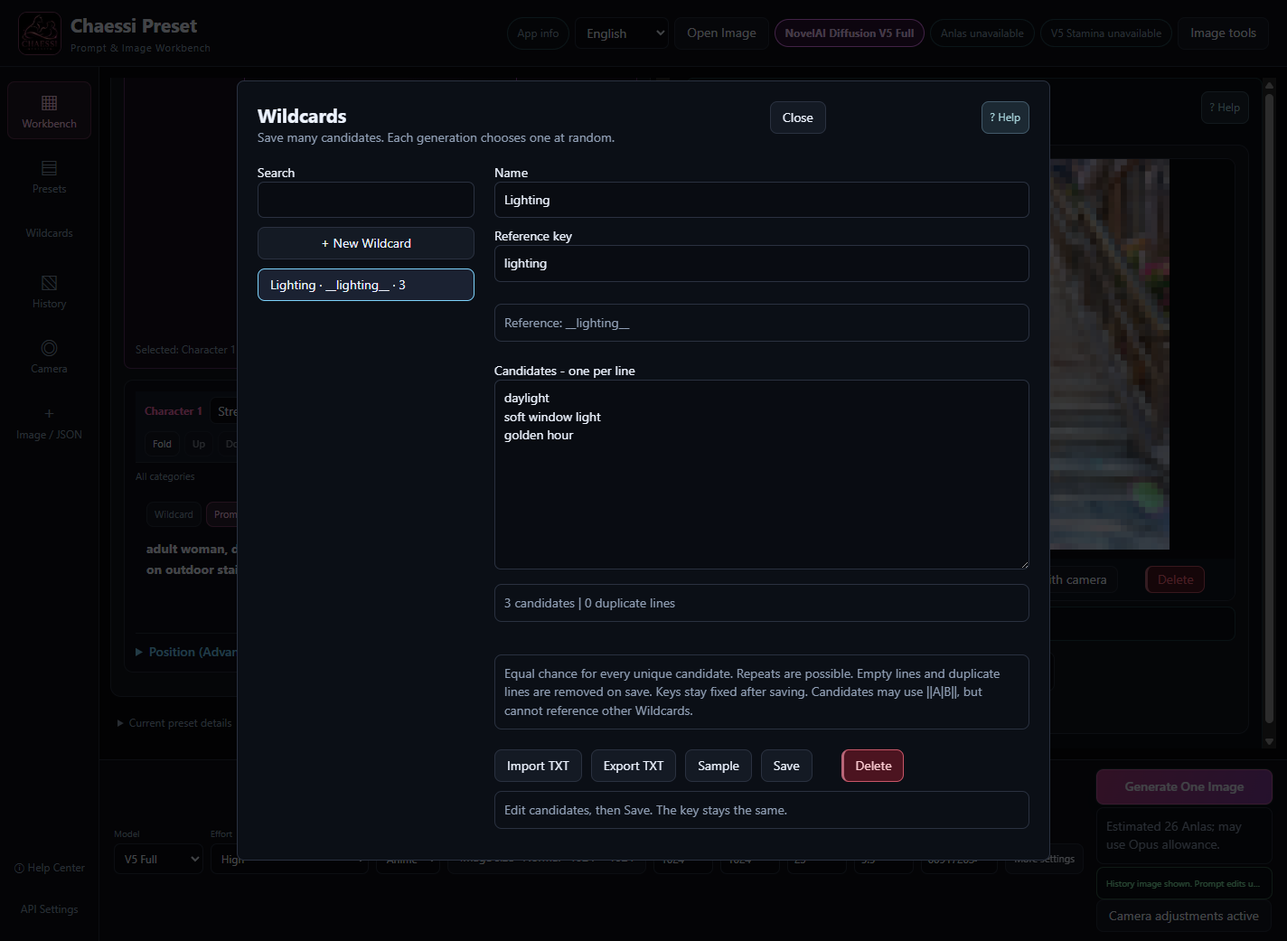
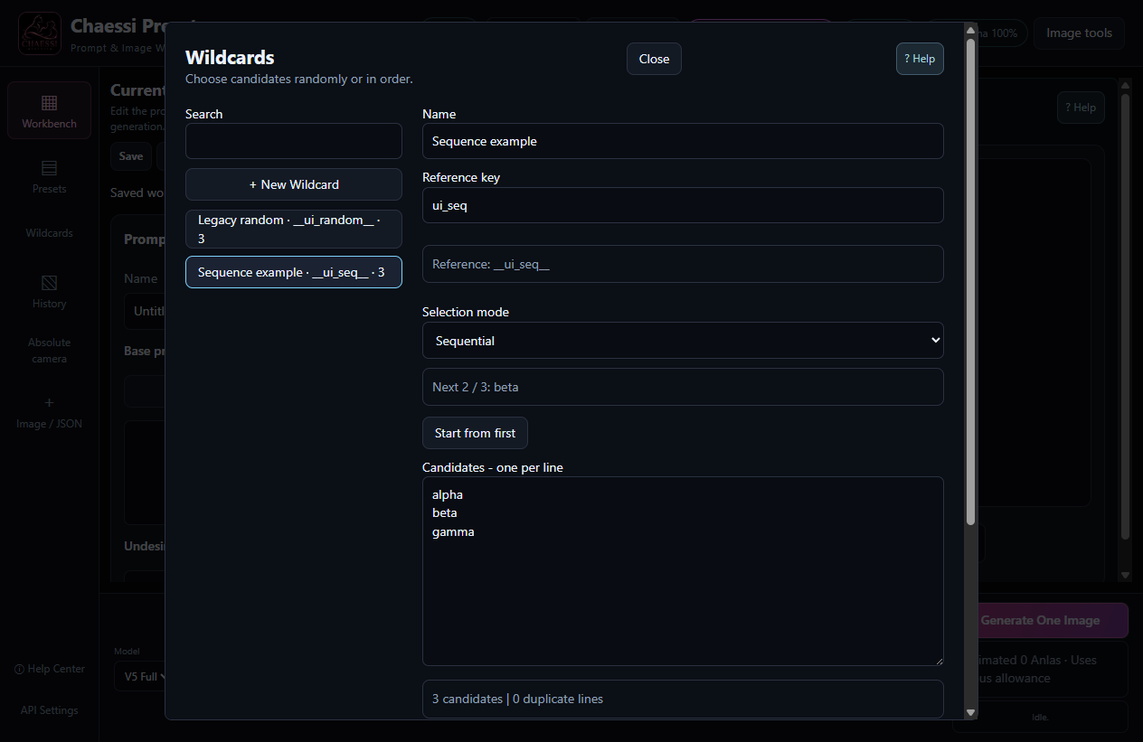
Document the 2026-10-28 v3.8.2 Wildcard revision without changing other guides

diff --git a/src/ui/manual-content.js b/src/ui/manual-content.js
@@ -29,9 +29,9 @@ export const manualChapters = [
     ['Characters, outfits and categories', 'Give each character its own prompt and load character or outfit presets.', ['Press Add Character and enter a name and prompt. Use the other tab for Undesired Content.', 'Press Preset in that Character slot, then choose a category and subcategory.', 'Find a card with search and sorting, then Load it. Save & manage includes Save, Save As, thumbnails and category creation.', 'Use Fold/Expand, On/Off and Up/Down to organize slots. Base Prompt uses the same preset library.'], 'Each numbered slot remembers its last category, including across app restarts and full preset or History application. Deleting a slot removes its current edits but keeps saved character presets.'],
     ['キャラクター・衣装・カテゴリ', 'キャラクターごとにプロンプトを書き、キャラクターや衣装のプリセットを読み込めます。', ['キャラクターを追加し、名前とプロンプトを入力します。除外プロンプトは隣のタブに書きます。', 'そのスロットのプリセットを押し、カテゴリとサブカテゴリを選びます。', '検索と並び替えで探したカードを読み込みます。保存と管理では保存、名前を付けて保存、サムネイル、カテゴリ追加ができます。', '折りたたみ、展開、オン・オフ、上・下で整理します。ベースプロンプトも同じライブラリを使います。'], '番号ごとのスロットは最後のカテゴリを記憶します。再起動や全体プリセット・履歴の適用後も保持します。スロット削除は編集中の内容を消しますが、保存したキャラクタープリセットは残ります。']),
   chapter('wildcards', 'wildcard',
-    ['와일드카드', '많은 프롬프트 후보를 한 곳에 저장하고, 이미지마다 하나를 무작위로 고를 수 있습니다.', ['왼쪽 와일드카드에서 + 새 와일드카드를 누릅니다. 이름은 상의, 키는 tops처럼 정합니다.', '후보에 white shirt, black shirt, blue shirt를 각각 다른 줄에 넣고 저장합니다.', '베이스나 캐릭터 칸의 와일드카드 버튼을 누릅니다. 목록에서 고르고 프롬프트에 삽입을 누르면 __tops__가 들어갑니다. 직접 __tops__를 적어도 됩니다.', '프리셋으로 저장한 뒤 생성합니다. 그때 고른 실제 후보만 NovelAI 요청, 히스토리, 이미지 메타데이터에 기록됩니다.'], '여러 키를 함께 쓸 수 있습니다. 빈 줄과 중복 줄은 저장할 때 제거됩니다. 같은 후보가 연속으로 나올 수 있습니다. 키는 저장 후 고정됩니다. TXT 가져오기·내보내기와 시험 선택도 사용할 수 있습니다. 후보에 기존 ||A|B||는 쓸 수 있지만 다른 와일드카드는 참조할 수 없습니다.'],
-    ['Wildcards', 'Save many prompt candidates in one place and choose one randomly for each image.', ['Open Wildcards and press + New Wildcard. Use a name such as Tops and a key such as tops.', 'Enter white shirt, black shirt and blue shirt on separate lines, then Save.', 'Press Wildcard next to Base Prompt or a Character field. Select an item and Insert into prompt to add __tops__. You can also type __tops__ directly.', 'Save the preset and generate. Only the actual chosen text is recorded in the NovelAI request, History and image metadata.'], 'Use multiple keys together. Empty and duplicate lines are removed on save. Repeated selections are possible. Keys are fixed after saving. TXT import/export and Sample are available. Candidates may contain the existing ||A|B|| syntax, but cannot reference other Wildcards.'],
-    ['ワイルドカード', '多数のプロンプト候補を保存し、画像ごとに1つをランダムに選べます。', ['ワイルドカードで + 新しいワイルドカードを押します。名前は上着、キーは tops などにします。', 'white shirt、black shirt、blue shirt をそれぞれ別の行に入力して保存します。', 'ベースやキャラクター欄のワイルドカードを押します。一覧で選び、プロンプトに挿入すると __tops__ が入ります。直接入力もできます。', 'プリセットとして保存し、生成します。選ばれた実際の文字だけを NovelAI リクエスト、履歴、画像メタデータに記録します。'], '複数のキーを一緒に使えます。保存時に空行と重複行を除きます。同じ候補が連続する場合もあります。保存後のキーは固定です。TXT の読み込み・書き出し、試しに選ぶ機能もあります。候補に ||A|B|| は使えますが、別のワイルドカードは参照できません。']),
+    ["와일드카드","여러 프롬프트 후보를 저장하고 무작위(Random) 또는 순차(Sequential)로 선택합니다.",["왼쪽 와일드카드에서 + 새 와일드카드를 누릅니다. 이름과 tops 같은 키를 정하고 후보를 한 줄에 하나씩 입력합니다. TXT 가져오기·내보내기도 사용할 수 있습니다.","선택 방식에서 무작위 또는 순차를 고르고 저장합니다. 기존 항목과 새 항목의 기본값은 무작위이며, 참조마다 독립적으로 추첨합니다.","순차는 등록 순서대로 A → B → C → A처럼 반복합니다. 다음 항목 번호와 내용을 확인하고, 처음부터를 누르면 첫 후보로 돌아갑니다. 편집 중이라면 먼저 저장하세요.","베이스·캐릭터 또는 실제 적용되는 제외 프롬프트에 __tops__를 삽입합니다. 같은 순차 키를 한 이미지에서 여러 번 쓰면 같은 후보를 사용하고 한 번만 진행합니다. 여러 키의 순번은 각각 관리합니다.","이미지 생성과 History 저장이 모두 성공하면 다음 후보로 진행합니다. 생성 준비·문구 확인·Sample·미리보기·취소·실패에서는 진행하지 않습니다. 최종 생성 문구에 사용되지 않은 참조도 진행하지 않습니다.","Sample로 순차의 다음 후보를 미리 볼 수 있습니다. 앱을 다시 실행해도 순번이 복원되며, 무작위로 바꿨다가 순차로 돌아와도 이전 순번을 유지합니다.","History에는 실제 선택한 문구가 보존됩니다. History를 재사용하면 그 문구를 사용하며 새 순번을 소비하지 않습니다. 새 후보를 선택하려면 프롬프트에 참조 키를 다시 넣으세요."],"빈 줄과 중복 줄은 저장 시 제거하며 키는 저장 후 고정됩니다. 후보에 ||A|B||는 쓸 수 있지만 다른 Wildcard 참조는 넣을 수 없습니다. 기존 데이터는 일괄 변환하지 않습니다. 항목을 추가·정렬하면 다음 후보를 유지하고, 삭제하면 남은 다음 후보로 이동합니다. 순차 생성 중에는 편집·초기화를 기다리세요. 이미지 도구는 순번을 진행하지 않습니다. 동일 데이터 폴더를 여러 앱에서 동시에 사용하지 마세요."],
+    ["Wildcards","Save prompt candidates and choose Random or Sequential selection.",["Open Wildcards and press + New Wildcard. Choose a name and a key such as tops, and enter one candidate per line. TXT import/export remains available.","Choose Random or Sequential and Save. Existing and new Wildcards default to Random, which draws independently for every reference.","Sequential repeats the saved order, such as A → B → C → A. Check the next item number and text. Start from first resets to the first candidate; save pending edits first.","Insert __tops__ into Base, Character or an active Undesired prompt. Repeated references to the same sequential key in one image share one choice and advance once. Each key has its own position.","Advance only after both image generation and History saving succeed. Preparation, prompt review, Sample, preview, cancellation and failure do not advance. References omitted from the final generation text do not advance either.","Sample previews the next sequential candidate. Restarting restores the position. Switching to Random and back to Sequential retains the paused position.","History keeps the actual chosen text. Reusing History uses that text without consuming another position. Insert the reference key again when you want a new choice."],"Empty and duplicate lines are removed on save, and saved keys stay fixed. Candidates may use ||A|B|| but cannot reference other Wildcards. Existing data is not bulk-converted. Adding or reordering retains the next candidate; deleting it moves to the next surviving candidate. Wait for a sequential generation to finish before editing or resetting. Image tools do not advance the position. Do not use the same data folder in multiple app instances simultaneously."],
+    ["ワイルドカード","候補を保存し、ランダム(Random)または順番(Sequential)で選択します。",["ワイルドカードで「+ 新しいワイルドカード」を押します。名前と tops などのキーを決め、候補を1行に1つ入力します。TXT の読み込み・書き出しも使えます。","選択方式でランダムまたは順番を選び、保存します。既存・新規とも初期値はランダムで、参照ごとに独立して選びます。","順番は登録順に A → B → C → A と繰り返します。次の候補番号と内容を確認し、「最初から」で先頭に戻せます。編集中の内容は先に保存してください。","ベース・キャラクターまたは実際に適用される除外プロンプトに __tops__ を挿入します。同じ順番キーを1枚で複数回使うと同じ候補になり、進むのは1回だけです。キーごとに位置を保持します。","画像生成と履歴の保存が両方成功した後だけ進みます。準備・文章確認・Sample・プレビュー・キャンセル・失敗では進みません。最終的な生成文に使われない参照も進みません。","Sample で次の順番候補を確認できます。再起動後も位置を復元し、ランダムに切り替えてから順番に戻しても以前の位置を保ちます。","履歴には実際に選んだ文章が残ります。履歴の再利用はその文章を使い、新しい順番を消費しません。次の候補を選ぶときは参照キーを再び挿入してください。"],"保存時に空行・重複行を除き、保存後のキーは固定します。候補内の ||A|B|| は使えますが、他のワイルドカードは参照できません。既存データの一括変換は行いません。追加・並べ替えでは次の候補を保ち、削除した場合は次に残る候補へ移ります。順番生成中の編集・リセットは完了まで待ってください。画像ツールでは順番は進みません。同じデータフォルダーを複数のアプリで同時使用しないでください。"]),
   chapter('models', 'generation',
     ['모델과 생성 설정', '새 작업은 V5를 우선합니다. 기존 V4.5 작업은 그대로 불러올 수 있습니다.', ['아래 모델에서 V5 또는 V4.5를 고릅니다. 지원하지 않는 옵션은 사용하지 않으며 기존 모델별 값은 보존합니다.', '너비와 높이는 이미지 크기, 스텝 수는 생성 단계 수입니다. 프롬프트 강도는 글을 따르는 정도입니다.', '시드를 비우면 무작위 값으로 생성합니다. 같은 결과를 다시 시도하려면 히스토리의 시드와 설정을 적용합니다.', '상세 설정에서 샘플러, 품질 태그, 제외 태그, CFG 재조정 등을 조절합니다. V5에는 품질 태그 단계와 투명 배경 옵션도 있습니다.'], '두 모델 모두 텍스트 생성, 이미지 생성, 부분 수정을 지원합니다. V4.5 정밀 참조와 SMEA는 V5에서 비활성화되며 값은 보존됩니다. 시드만 같아도 다른 설정이나 Wildcard 후보가 바뀌면 결과는 달라질 수 있습니다.'],
     ['Models and generation settings', 'Fresh work starts with V5. Existing V4.5 work can still be loaded unchanged.', ['Choose V5 or V4.5 in the bottom bar. Unsupported options are disabled, and each model keeps its settings.', 'Width and Height set the image size. Steps controls the number of generation steps. Scale controls how strongly the prompt guides the image.', 'Leave Seed empty for a random value. To try a result again, apply its seed and settings from History.', 'More settings includes sampler, quality tags, UC preset and CFG rescale. V5 also offers quality tag levels and transparent background.'], 'Both models support Text to Image, Image to Image and Inpaint. V4.5 Precise Reference and SMEA are disabled in V5 while their values are preserved. The same seed may still give a different result if settings or Wildcard selections change.'],
@@ -113,3 +113,6 @@ describeReusedArtwork(manualChapters);
 common.ko[2]=['최근 결과에서 이미지 도구를 누르세요. 과거 그림은 History에서 크게 연 뒤 이미지 도구를 눌러요. 외부 PNG는 상단 이미지 도구 → PNG 선택으로 열어요.','도구 목록에서 하고 싶은 일을 골라요. 원본 사용 글은 그림을 만들 때 쓴 설명이고, 현재 작업대 글은 지금 편집 중인 설명이에요. 후자를 직접 고르면 Wildcard가 그때 한 번 정해져요.','설정을 정하고 작업·비용 확인을 눌러 크기·예상 Anlas·실제로 쓸 글을 읽어요. 왼쪽 설정이 길면 아래로 스크롤하세요.','실행하고 기다리세요. 완성 결과는 입력과 별도로 아래에 나타나며 History에 새 PNG로 저장돼요. 실패나 통신 중단 시 자동으로 유료 재시도하지 않아요.','PNG 저장으로 내 컴퓨터에 보관해요. 다른 도구 적용으로 이어서 다듬거나 I2I/Inpaint 원본으로 쓸 수 있어요. 작업대 글은 자동으로 바뀌지 않아요.'];
 common.en[2]=['Press Image tools on a latest result. For an older picture, open it in History, then Image tools. For an external PNG, use the top Image tools button and Choose PNG.','Choose what to do in Tool. Original used prompt means the text used to make the source; current workbench prompt means the text you are editing. Explicitly choosing the latter resolves its Wildcards once.','Choose settings and Review operation to read size, estimated Anlas and actual prompt. Scroll down the left settings column when necessary.','Run and wait. The completed result appears below, separately from the input, and is saved as a new History PNG. Failures and interruptions do not trigger automatic paid retries.','Save PNG to your computer. Use the result in another tool, or as I2I/Inpaint source. Your workbench text is not automatically changed.'];
 common.ja[2]=['最新結果の画像ツールを押します。過去の絵は履歴で開いてから画像ツールへ。外部 PNG は上部の画像ツール → PNG 選択で開きます。','ツール一覧で作業を選びます。元のプロンプトは元画像を作った文章、現在の作業台は編集している文章です。後者を明示して選ぶと Wildcard を一度確定します。','設定後に作業・費用を確認し、サイズ・推定 Anlas・実際の文章を読みます。左の設定が長い場合は下にスクロールします。','実行して待ちます。完成結果は入力と別に下へ表示し、新しい履歴 PNG として保存します。失敗や中断時に有料の自動再試行はしません。','PNG 保存でパソコンに保管します。別ツールや I2I/部分修正の元画像として続けられます。作業台の文章は自動では変わりません。'];
+
+// Wildcard help revised with the 2026-10-28 portable update.
+manualChapters.find(c=>c.id==='wildcards').imageNote = {"ko":"2026-10-28 개정 v3.8.2의 실제 Wildcard 화면입니다. 순차 선택과 다음 후보 beta(2/3)를 표시한 사용 예시입니다.","en":"Actual Wildcard UI in the 2026-10-28 revision of v3.8.2, showing Sequential and the next candidate beta (2/3).","ja":"2026-10-28 改訂 v3.8.2 の実際の画面です。順番モードと次の候補 beta（2/3）を示しています。"};

diff --git a/.github/releases/v3.8.2.md b/.github/releases/v3.8.2.md
@@ -2,6 +2,24 @@
 
 [한국어](https://github.com/DooMokDdongGae/Chaessi-Preset/blob/main/.github/releases/v3.8.2.ko.md) · [English](https://github.com/DooMokDdongGae/Chaessi-Preset/blob/main/.github/releases/v3.8.2.en.md) · [日本語](https://github.com/DooMokDdongGae/Chaessi-Preset/blob/main/.github/releases/v3.8.2.ja.md)
 
+## 2026-10-28 Wildcard 기능 추가
+
+Wildcard 관리에서 무작위(Random) 또는 순차(Sequential)를 선택할 수 있습니다. 순차는 등록 순서를 반복하며 다음 후보를 표시합니다. 생성과 History 저장이 성공한 뒤 한 번 진행하고, Sample·미리보기·취소·실패는 순번을 소비하지 않습니다. 재시작 후에도 순번을 유지하며 **처음부터**로 초기화할 수 있습니다. 기존 Wildcard는 계속 Random입니다. [Wildcard 도움말](https://doomokddonggae.github.io/Chaessi-Preset/v3.8.2/?lang=ko&chapter=wildcards)
+
+기존 **v3.8.2 태그는 최초 배포 소스 커밋으로 보존**합니다. 같은 이름의 EXE와 체크섬은 이번 개정 빌드로 교체됩니다. 따라서 태그의 소스와 개정 EXE의 빌드 소스가 다르며, 정확한 PUBLIC 빌드 커밋과 새 SHA-256은 [Release 본문](https://github.com/DooMokDdongGae/Chaessi-Preset/releases/tag/v3.8.2)에 기록합니다. 업데이트 전 앱을 종료하고 사용자 데이터 폴더를 백업하세요.
+
+## 2026-10-28 — Wildcard selection update
+
+Choose Random or Sequential in the existing Wildcard manager. Sequential cycles through the saved order and shows the next candidate. It advances once after generation and History saving succeed; Sample, preview, cancellation and failure do not consume a position. Restarting retains the position; **Start from first** resets it. Existing Wildcards remain Random. [Wildcard guide](https://doomokddonggae.github.io/Chaessi-Preset/v3.8.2/?lang=en&chapter=wildcards)
+
+The existing **v3.8.2 tag remains fixed to the original release source**. The EXE and checksum keep their filenames and are replaced by this revision. The tag source therefore differs from the revised EXE build source; the exact PUBLIC build commit and new SHA-256 are recorded in the [Release body](https://github.com/DooMokDdongGae/Chaessi-Preset/releases/tag/v3.8.2). Close the app and back up your data folder before replacing the EXE.
+
+## 2026-10-28 — ワイルドカード機能追加
+
+既存の管理画面でランダム(Random)または順番(Sequential)を選べます。順番は登録順に繰り返し、次の候補を表示します。生成と履歴の保存が成功した後に1回進み、Sample・プレビュー・キャンセル・失敗では進みません。再起動後も位置を保持し、**最初から**でリセットできます。既存のワイルドカードはランダムのままです。[ワイルドカードのヘルプ](https://doomokddonggae.github.io/Chaessi-Preset/v3.8.2/?lang=ja&chapter=wildcards)
+
+既存の **v3.8.2 タグは初回公開ソースに固定して保持**します。EXE とチェックサムは同じファイル名で改訂版に置き換えます。そのためタグのソースと改訂 EXE のビルド元は異なり、正確な PUBLIC ビルドコミットと新しい SHA-256 は [Release 本文](https://github.com/DooMokDdongGae/Chaessi-Preset/releases/tag/v3.8.2)に記録します。更新前にアプリを終了し、データフォルダーをバックアップしてください。
+
 ## 한국어
 
 ### 업데이트 개요

diff --git a/README.ko.md b/README.ko.md
@@ -4,13 +4,17 @@
 
 [한국어](https://github.com/DooMokDdongGae/Chaessi-Preset/blob/main/README.ko.md) · [English](https://github.com/DooMokDdongGae/Chaessi-Preset/blob/main/README.en.md) · [日本語](https://github.com/DooMokDdongGae/Chaessi-Preset/blob/main/README.ja.md)
 
-**[설치 없이 보는 40장 온라인 도움말](https://doomokddonggae.github.io/Chaessi-Preset/v3.8.2/?lang=ko&chapter=start)** — 이 문서와 온라인 도움말은 v3.8.2 사용법을 최신 상태로 유지합니다. 배포된 EXE 안의 도움말과 소스 태그에 고정된 문서는 배포 당시 내용으로 보존됩니다.
+**[설치 없이 보는 40장 온라인 도움말](https://doomokddonggae.github.io/Chaessi-Preset/v3.8.2/?lang=ko&chapter=start)** — 이 문서와 온라인 도움말은 최신 개정 내용을 안내합니다. 2026-10-28 개정 EXE에는 Wildcard 순차 선택과 갱신된 도움말이 포함되며, 기존 v3.8.2 소스 태그는 최초 배포 커밋으로 보존됩니다.
 
 **직접 만든 프롬프트·캐릭터·의상·작업 결과를 재사용하면서 생성과 편집을 이어가는 로컬 작업대입니다.** NovelAI 계정으로 그림을 만들고, Chaessi Preset에서 제작 재료와 다음 작업을 관리합니다.
 
 “AI가 모든 것을 자동으로 결정하는 것이 아니라, 창작자가 프롬프트와 작업 과정을 직접 통제하고 수정하면서 결과를 완성한다.” 프리셋 저장, 생성 전 문구 확인, 수동 가중치 보정, 원본 복귀와 History 재사용은 이 방향을 위한 기능입니다.
 
 [v3.8.2 정식 Release](https://github.com/DooMokDdongGae/Chaessi-Preset/releases/tag/v3.8.2) · [v3.8.2 변경사항](https://github.com/DooMokDdongGae/Chaessi-Preset/blob/main/.github/releases/v3.8.2.ko.md) · [카메라 안내](https://github.com/DooMokDdongGae/Chaessi-Preset/blob/main/docs/CAMERA.ko.md)
+
+## 2026-10-28 Wildcard 기능 추가
+
+Wildcard 관리에서 무작위(Random) 또는 순차(Sequential)를 선택할 수 있습니다. 순차는 등록 순서를 반복하며 다음 후보를 표시합니다. 생성과 History 저장이 성공한 뒤 한 번 진행하고, Sample·미리보기·취소·실패는 순번을 소비하지 않습니다. 재시작 후에도 순번을 유지하며 **처음부터**로 초기화할 수 있습니다. 기존 Wildcard는 계속 Random입니다. [Wildcard 도움말](https://doomokddonggae.github.io/Chaessi-Preset/v3.8.2/?lang=ko&chapter=wildcards)
 
 ## 한 작업을 이어가기
 

diff --git a/README.md b/README.md
@@ -4,13 +4,17 @@
 
 [한국어](https://github.com/DooMokDdongGae/Chaessi-Preset/blob/main/README.ko.md) · [English](https://github.com/DooMokDdongGae/Chaessi-Preset/blob/main/README.en.md) · [日本語](https://github.com/DooMokDdongGae/Chaessi-Preset/blob/main/README.ja.md)
 
-**[설치 없이 보는 40장 온라인 도움말](https://doomokddonggae.github.io/Chaessi-Preset/v3.8.2/?lang=ko&chapter=start)** — 이 문서와 온라인 도움말은 v3.8.2 사용법을 최신 상태로 유지합니다. 배포된 EXE 안의 도움말과 소스 태그에 고정된 문서는 배포 당시 내용으로 보존됩니다.
+**[설치 없이 보는 40장 온라인 도움말](https://doomokddonggae.github.io/Chaessi-Preset/v3.8.2/?lang=ko&chapter=start)** — 이 문서와 온라인 도움말은 최신 개정 내용을 안내합니다. 2026-10-28 개정 EXE에는 Wildcard 순차 선택과 갱신된 도움말이 포함되며, 기존 v3.8.2 소스 태그는 최초 배포 커밋으로 보존됩니다.
 
 **직접 만든 프롬프트·캐릭터·의상·작업 결과를 재사용하면서 생성과 편집을 이어가는 로컬 작업대입니다.** NovelAI 계정으로 그림을 만들고, Chaessi Preset에서 제작 재료와 다음 작업을 관리합니다.
 
 “AI가 모든 것을 자동으로 결정하는 것이 아니라, 창작자가 프롬프트와 작업 과정을 직접 통제하고 수정하면서 결과를 완성한다.” 프리셋 저장, 생성 전 문구 확인, 수동 가중치 보정, 원본 복귀와 History 재사용은 이 방향을 위한 기능입니다.
 
 [v3.8.2 정식 Release](https://github.com/DooMokDdongGae/Chaessi-Preset/releases/tag/v3.8.2) · [v3.8.2 변경사항](https://github.com/DooMokDdongGae/Chaessi-Preset/blob/main/.github/releases/v3.8.2.ko.md) · [카메라 안내](https://github.com/DooMokDdongGae/Chaessi-Preset/blob/main/docs/CAMERA.ko.md)
+
+## 2026-10-28 Wildcard 기능 추가
+
+Wildcard 관리에서 무작위(Random) 또는 순차(Sequential)를 선택할 수 있습니다. 순차는 등록 순서를 반복하며 다음 후보를 표시합니다. 생성과 History 저장이 성공한 뒤 한 번 진행하고, Sample·미리보기·취소·실패는 순번을 소비하지 않습니다. 재시작 후에도 순번을 유지하며 **처음부터**로 초기화할 수 있습니다. 기존 Wildcard는 계속 Random입니다. [Wildcard 도움말](https://doomokddonggae.github.io/Chaessi-Preset/v3.8.2/?lang=ko&chapter=wildcards)
 
 ## 한 작업을 이어가기
 

diff --git a/README.ja.md b/README.ja.md
@@ -4,13 +4,17 @@
 
 [한국어](https://github.com/DooMokDdongGae/Chaessi-Preset/blob/main/README.ko.md) · [English](https://github.com/DooMokDdongGae/Chaessi-Preset/blob/main/README.en.md) · [日本語](https://github.com/DooMokDdongGae/Chaessi-Preset/blob/main/README.ja.md)
 
-**[インストールせずに全40章を読む](https://doomokddonggae.github.io/Chaessi-Preset/v3.8.2/?lang=ja&chapter=start)** — この文書とオンラインヘルプはv3.8.2向けに更新します。配布済みEXE内のヘルプとソースタグに固定された文書は、公開時の内容を保持します。
+**[インストールせずに全40章を読む](https://doomokddonggae.github.io/Chaessi-Preset/v3.8.2/?lang=ja&chapter=start)** — この文書とオンラインヘルプは最新の改訂内容を案内します。2026-10-28 改訂 EXE には順番ワイルドカードと更新済みヘルプを含み、既存の v3.8.2 ソースタグは初回公開コミットに固定して保持します。
 
 **自分で作ったプロンプト・人物・衣装・作業結果を再利用し、生成と編集をつなぐローカル作業台です。** NovelAIアカウントで画像を生成し、Chaessi Presetで制作素材と次の作業を管理します。
 
 「AIにすべてを決めさせるのではなく、制作者がプロンプトと工程を自分で制御・修正し、結果を完成させる」。プリセット保存、生成文の確認、重みの手動補正、原本への復帰、履歴の再利用はこの方針のための機能です。
 
 [v3.8.2正式リリース](https://github.com/DooMokDdongGae/Chaessi-Preset/releases/tag/v3.8.2) · [v3.8.2の変更点](https://github.com/DooMokDdongGae/Chaessi-Preset/blob/main/.github/releases/v3.8.2.ja.md) · [カメラガイド](https://github.com/DooMokDdongGae/Chaessi-Preset/blob/main/docs/CAMERA.ja.md)
+
+## 2026-10-28 — ワイルドカード機能追加
+
+既存の管理画面でランダム(Random)または順番(Sequential)を選べます。順番は登録順に繰り返し、次の候補を表示します。生成と履歴の保存が成功した後に1回進み、Sample・プレビュー・キャンセル・失敗では進みません。再起動後も位置を保持し、**最初から**でリセットできます。既存のワイルドカードはランダムのままです。[ワイルドカードのヘルプ](https://doomokddonggae.github.io/Chaessi-Preset/v3.8.2/?lang=ja&chapter=wildcards)
 
 ## 作業をつなぐ
 

diff --git a/README.en.md b/README.en.md
@@ -4,13 +4,17 @@
 
 [한국어](https://github.com/DooMokDdongGae/Chaessi-Preset/blob/main/README.ko.md) · [English](https://github.com/DooMokDdongGae/Chaessi-Preset/blob/main/README.en.md) · [日本語](https://github.com/DooMokDdongGae/Chaessi-Preset/blob/main/README.ja.md)
 
-**[Read all 40 chapters online](https://doomokddonggae.github.io/Chaessi-Preset/v3.8.2/?lang=en&chapter=start)** — This document and online help are maintained for v3.8.2. Help inside the released EXE and documents fixed to the source tag retain their release-time content.
+**[Read all 40 chapters online](https://doomokddonggae.github.io/Chaessi-Preset/v3.8.2/?lang=en&chapter=start)** — This document and online help describe the latest revision. The 2026-10-28 revised EXE includes Sequential Wildcards and updated bundled help; the existing v3.8.2 source tag remains fixed to the original release commit.
 
 **A local workbench for reusing your prompts, characters, outfits and results across generation and editing.** Generate with your NovelAI account, then organize the materials and continue the work in Chaessi Preset.
 
 “The creator controls and revises the prompts and process to finish the result, instead of asking AI to decide everything.” Saved presets, reviewable generation text, manual weights, source recovery and History reuse serve that purpose.
 
 [v3.8.2 Release](https://github.com/DooMokDdongGae/Chaessi-Preset/releases/tag/v3.8.2) · [Changes in v3.8.2](https://github.com/DooMokDdongGae/Chaessi-Preset/blob/main/.github/releases/v3.8.2.en.md) · [Camera guide](https://github.com/DooMokDdongGae/Chaessi-Preset/blob/main/docs/CAMERA.en.md)
+
+## 2026-10-28 — Wildcard selection update
+
+Choose Random or Sequential in the existing Wildcard manager. Sequential cycles through the saved order and shows the next candidate. It advances once after generation and History saving succeed; Sample, preview, cancellation and failure do not consume a position. Restarting retains the position; **Start from first** resets it. Existing Wildcards remain Random. [Wildcard guide](https://doomokddonggae.github.io/Chaessi-Preset/v3.8.2/?lang=en&chapter=wildcards)
 
 ## Continue a piece of work
 

diff --git a/.github/releases/v3.8.2.ja.md b/.github/releases/v3.8.2.ja.md
@@ -2,6 +2,12 @@
 
 [한국어](https://github.com/DooMokDdongGae/Chaessi-Preset/blob/main/.github/releases/v3.8.2.ko.md) · [English](https://github.com/DooMokDdongGae/Chaessi-Preset/blob/main/.github/releases/v3.8.2.en.md) · [日本語](https://github.com/DooMokDdongGae/Chaessi-Preset/blob/main/.github/releases/v3.8.2.ja.md)
 
+## 2026-10-28 — ワイルドカード機能追加
+
+既存の管理画面でランダム(Random)または順番(Sequential)を選べます。順番は登録順に繰り返し、次の候補を表示します。生成と履歴の保存が成功した後に1回進み、Sample・プレビュー・キャンセル・失敗では進みません。再起動後も位置を保持し、**最初から**でリセットできます。既存のワイルドカードはランダムのままです。[ワイルドカードのヘルプ](https://doomokddonggae.github.io/Chaessi-Preset/v3.8.2/?lang=ja&chapter=wildcards)
+
+既存の **v3.8.2 タグは初回公開ソースに固定して保持**します。EXE とチェックサムは同じファイル名で改訂版に置き換えます。そのためタグのソースと改訂 EXE のビルド元は異なり、正確な PUBLIC ビルドコミットと新しい SHA-256 は [Release 本文](https://github.com/DooMokDdongGae/Chaessi-Preset/releases/tag/v3.8.2)に記録します。更新前にアプリを終了し、データフォルダーをバックアップしてください。
+
 ## アップデート概要
 
 v3.8.2では、最初の画像を生成する前から希望の視点を指定できる絶対カメラを導入しました。プリセット、V5生成、構図編集、画像ツール、履歴は引き続き使えます。

diff --git a/.github/releases/v3.8.2.ko.md b/.github/releases/v3.8.2.ko.md
@@ -2,6 +2,12 @@
 
 [한국어](https://github.com/DooMokDdongGae/Chaessi-Preset/blob/main/.github/releases/v3.8.2.ko.md) · [English](https://github.com/DooMokDdongGae/Chaessi-Preset/blob/main/.github/releases/v3.8.2.en.md) · [日本語](https://github.com/DooMokDdongGae/Chaessi-Preset/blob/main/.github/releases/v3.8.2.ja.md)
 
+## 2026-10-28 Wildcard 기능 추가
+
+Wildcard 관리에서 무작위(Random) 또는 순차(Sequential)를 선택할 수 있습니다. 순차는 등록 순서를 반복하며 다음 후보를 표시합니다. 생성과 History 저장이 성공한 뒤 한 번 진행하고, Sample·미리보기·취소·실패는 순번을 소비하지 않습니다. 재시작 후에도 순번을 유지하며 **처음부터**로 초기화할 수 있습니다. 기존 Wildcard는 계속 Random입니다. [Wildcard 도움말](https://doomokddonggae.github.io/Chaessi-Preset/v3.8.2/?lang=ko&chapter=wildcards)
+
+기존 **v3.8.2 태그는 최초 배포 소스 커밋으로 보존**합니다. 같은 이름의 EXE와 체크섬은 이번 개정 빌드로 교체됩니다. 따라서 태그의 소스와 개정 EXE의 빌드 소스가 다르며, 정확한 PUBLIC 빌드 커밋과 새 SHA-256은 [Release 본문](https://github.com/DooMokDdongGae/Chaessi-Preset/releases/tag/v3.8.2)에 기록합니다. 업데이트 전 앱을 종료하고 사용자 데이터 폴더를 백업하세요.
+
 ## 업데이트 개요
 
 v3.8.2는 첫 이미지부터 원하는 시점을 지정할 수 있는 절대 카메라를 도입합니다. 프리셋, V5 이미지 생성, 구도 편집, 이미지 도구와 History는 계속 사용할 수 있습니다.

diff --git a/.github/releases/v3.8.2.en.md b/.github/releases/v3.8.2.en.md
@@ -2,6 +2,12 @@
 
 [한국어](https://github.com/DooMokDdongGae/Chaessi-Preset/blob/main/.github/releases/v3.8.2.ko.md) · [English](https://github.com/DooMokDdongGae/Chaessi-Preset/blob/main/.github/releases/v3.8.2.en.md) · [日本語](https://github.com/DooMokDdongGae/Chaessi-Preset/blob/main/.github/releases/v3.8.2.ja.md)
 
+## 2026-10-28 — Wildcard selection update
+
+Choose Random or Sequential in the existing Wildcard manager. Sequential cycles through the saved order and shows the next candidate. It advances once after generation and History saving succeed; Sample, preview, cancellation and failure do not consume a position. Restarting retains the position; **Start from first** resets it. Existing Wildcards remain Random. [Wildcard guide](https://doomokddonggae.github.io/Chaessi-Preset/v3.8.2/?lang=en&chapter=wildcards)
+
+The existing **v3.8.2 tag remains fixed to the original release source**. The EXE and checksum keep their filenames and are replaced by this revision. The tag source therefore differs from the revised EXE build source; the exact PUBLIC build commit and new SHA-256 are recorded in the [Release body](https://github.com/DooMokDdongGae/Chaessi-Preset/releases/tag/v3.8.2). Close the app and back up your data folder before replacing the EXE.
+
 ## Update overview
 
 v3.8.2 introduces an absolute camera for choosing a target view before the first image. Presets, V5 generation, composition editing, image tools and History remain available.
